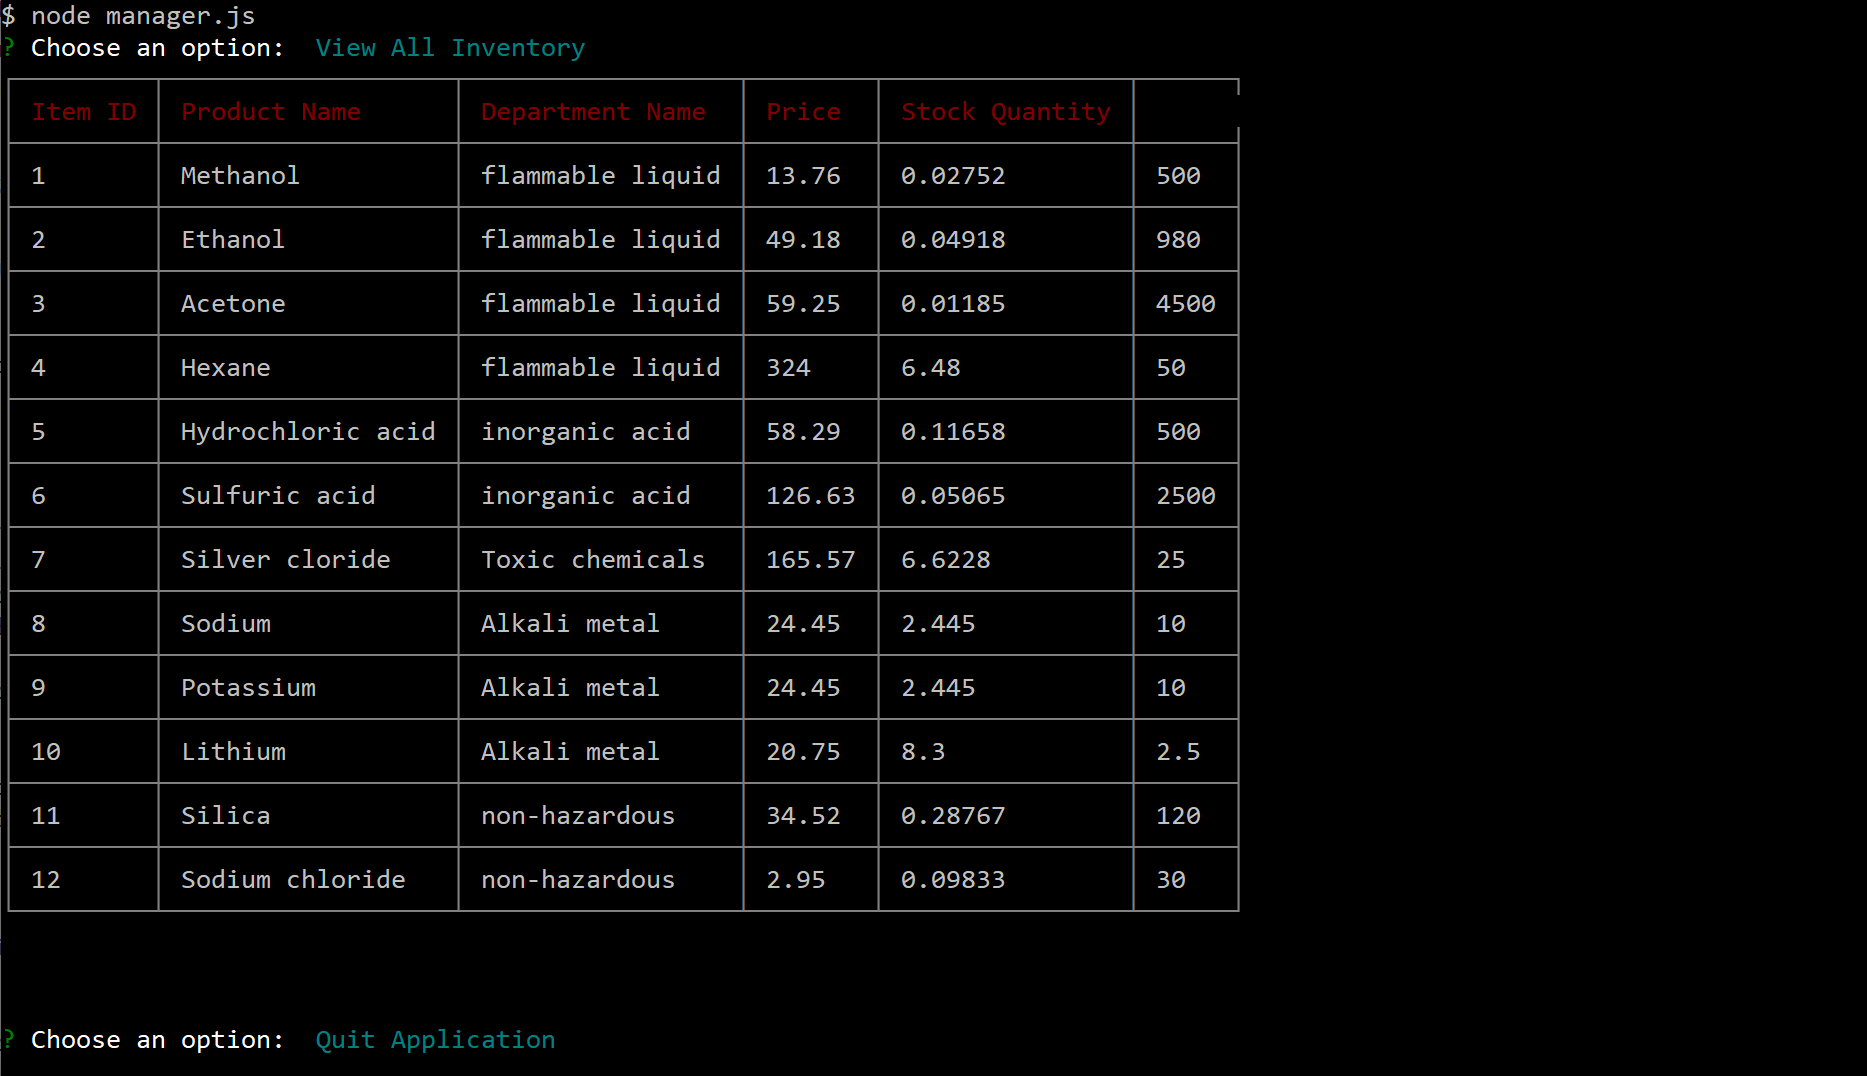
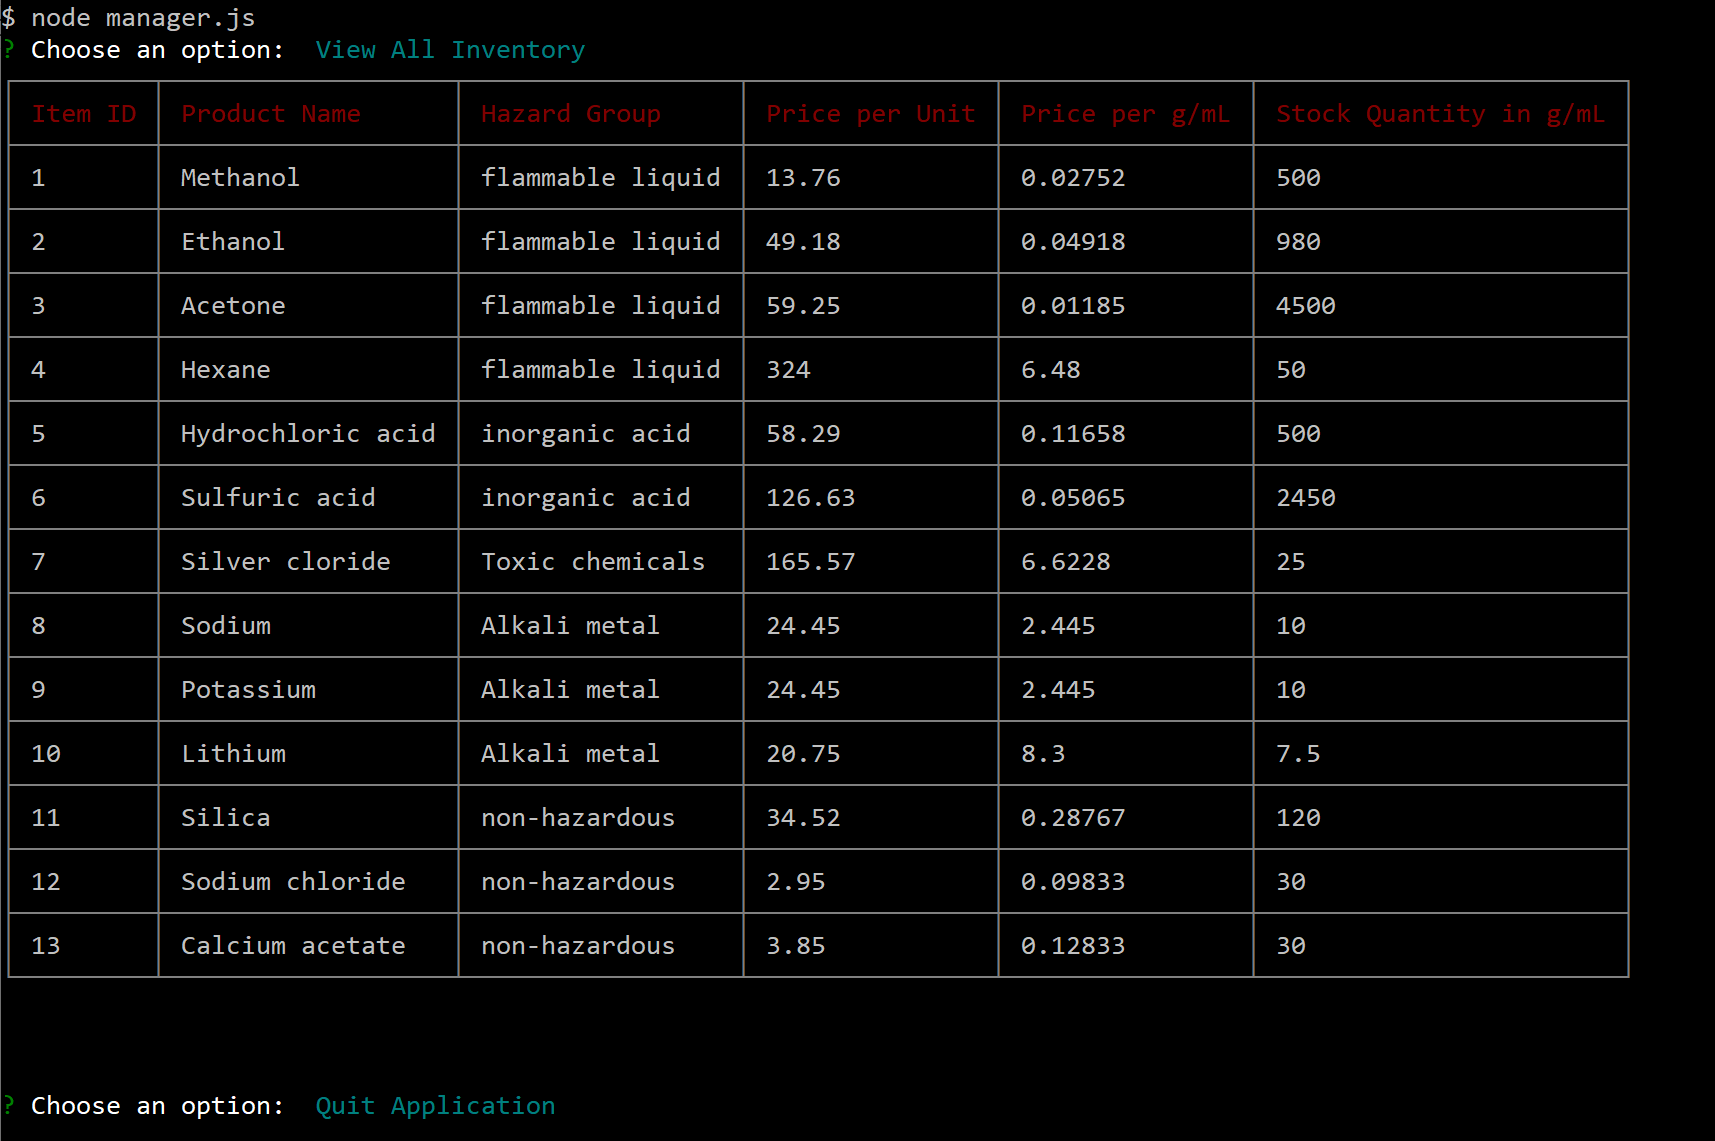
edited images

diff --git a/manager.js b/manager.js
@@ -2,7 +2,7 @@ var mysql = require("mysql");
 var inquirer = require("inquirer");
 var Table = require("cli-table");
 var table = new Table({
-    head: ['Item ID', 'Product Name', 'Department Name', 'Price', 'Stock Quantity'],
+    head: ['Item ID', 'Product Name', 'Hazard Group', 'Price per Unit', 'Price per g/mL', 'Stock Quantity in g/mL'],
 });
 
 var connection = mysql.createConnection({
